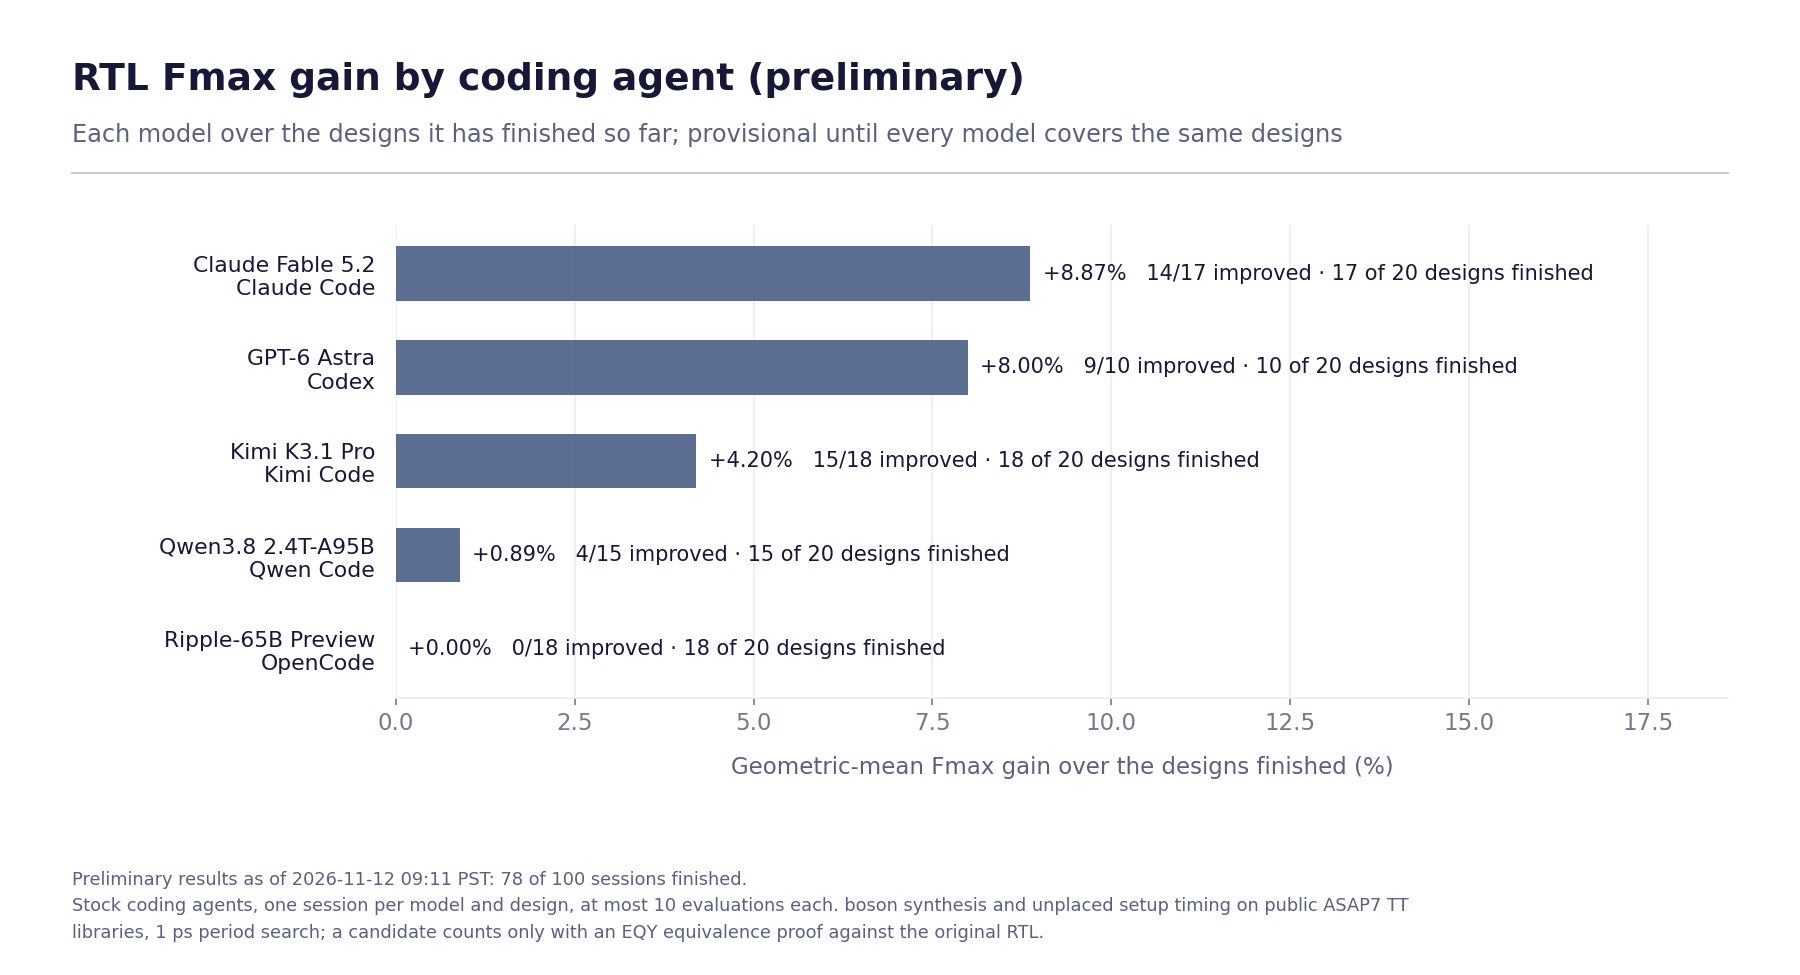
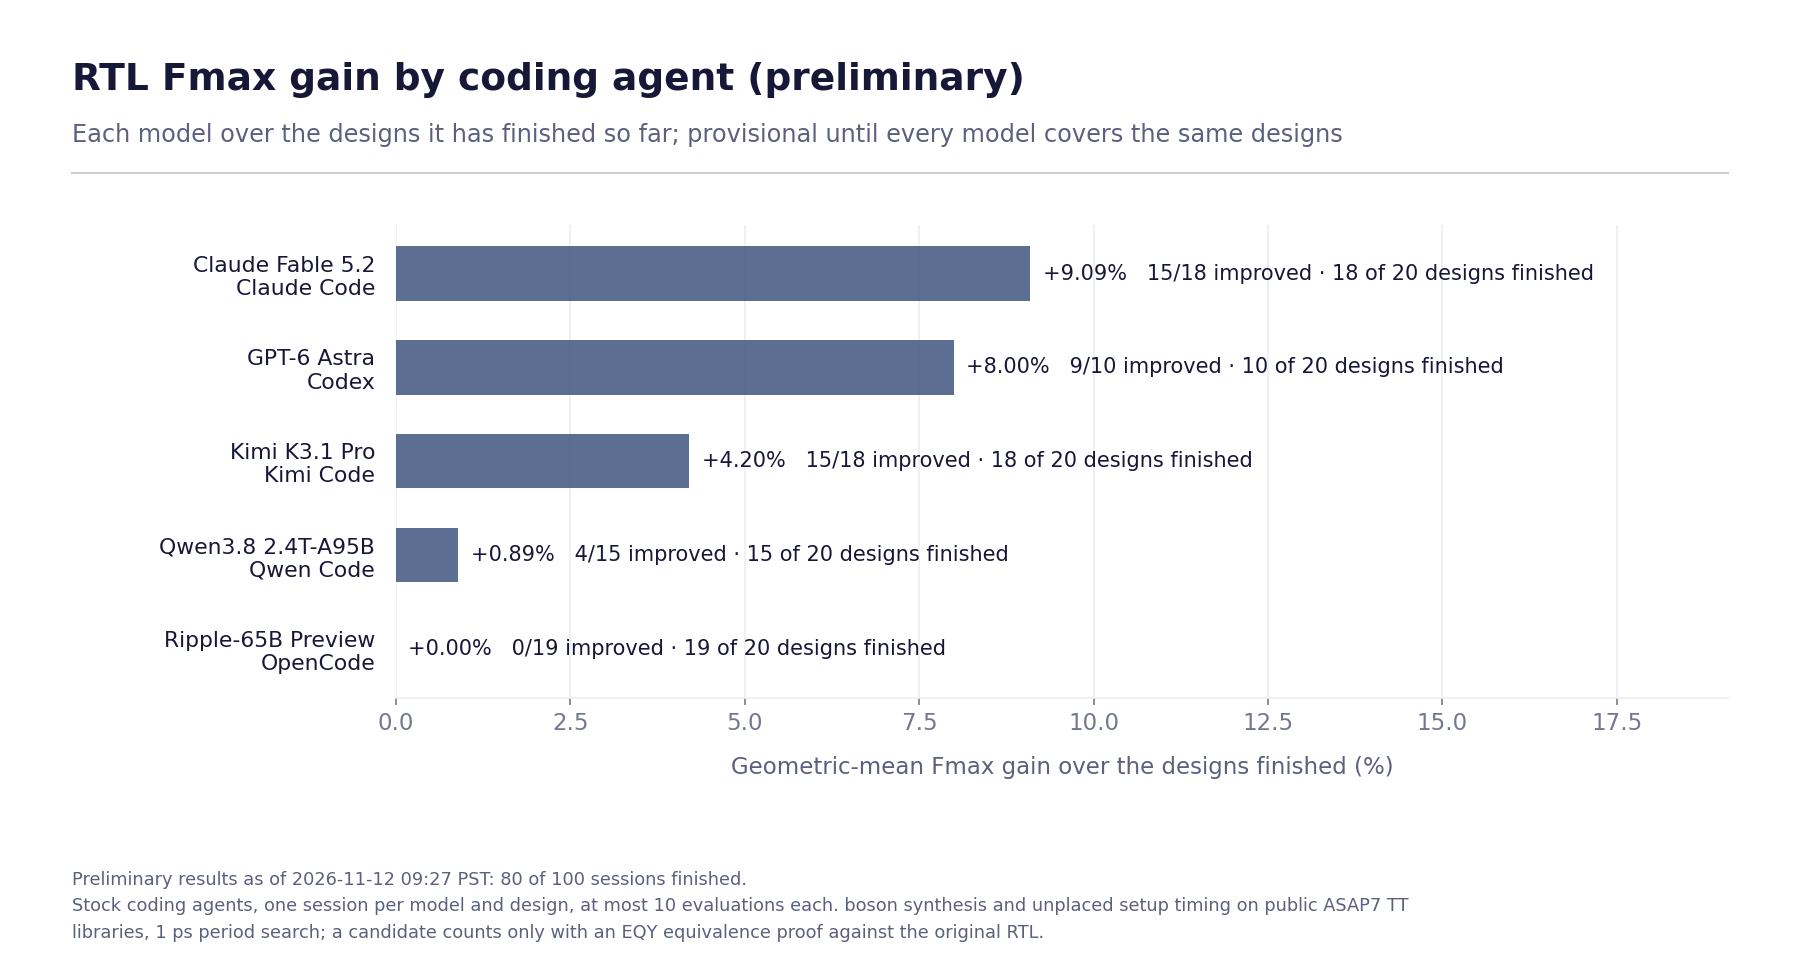
Refresh preliminary results: 80 of 100 sessions finished
Data as of 2026-11-12 09:27 PST.

diff --git a/README.md b/README.md
@@ -21,27 +21,27 @@ accepted only when it is proven equivalent and faster than the session's best so
 ## Results
 
 <!-- results:start -->
-**Status:** 78 of 100 sessions finished (5 models, 20 designs), as of 2026-11-12 09:11 PST. 11 interrupted attempts are excluded from these results while awaiting a valid replacement.
+**Status:** 80 of 100 sessions finished (5 models, 20 designs), as of 2026-11-12 09:27 PST. 11 interrupted attempts are excluded from these results while awaiting a valid replacement.
 
 ### Coverage
 
 | Model | Developer | Harness | Access | Sessions finished |
 |---|---|---|---|---:|
-| Claude Fable 5.2 | Anthropic | Claude Code 2.1.322 | Official CLI signed in to a subscription | 17 / 20 |
+| Claude Fable 5.2 | Anthropic | Claude Code 2.1.322 | Official CLI signed in to a subscription | 18 / 20 |
 | GPT-6 Astra | OpenAI | Codex 0.154.0 | Official CLI signed in to a subscription | 10 / 20 |
 | Kimi K3.1 Pro | Moonshot AI | Kimi Code 2.5.2 | OpenRouter, pinned to Moonshot AI's own endpoint (MXFP4), fallbacks disabled | 18 / 20 |
 | Qwen3.8 2.4T-A95B | Qwen (Alibaba) | Qwen Code 0.27.1 | OpenRouter, one pinned provider (SiliconFlow, FP8) | 15 / 20 |
-| Ripple-65B Preview | Ricursive AI | OpenCode 1.19.5 | Self-hosted (SGLang 0.5.19, BF16) for its first 15 designs; OpenRouter pinned to PrimeIntellect (BF16) for later sessions | 18 / 20 |
+| Ripple-65B Preview | Ricursive AI | OpenCode 1.19.5 | Self-hosted (SGLang 0.5.19, BF16) for its first 15 designs; OpenRouter pinned to PrimeIntellect (BF16) for later sessions | 19 / 20 |
 
 ### Results by model
 
 | Model | Harness | Designs finished | Fmax gain (geomean) | Designs improved | Mean evaluations | Candidates not proven |
 |---|---|---:|---:|---:|---:|---:|
-| Claude Fable 5.2 | Claude Code | 17 / 20 | +8.87% | 14 / 17 | 4.8 | 41% (33 / 81) |
+| Claude Fable 5.2 | Claude Code | 18 / 20 | +9.09% | 15 / 18 | 5.1 | 44% (40 / 91) |
 | GPT-6 Astra | Codex | 10 / 20 | +8.00% | 9 / 10 | 8.2 | 27% (22 / 82) |
 | Kimi K3.1 Pro | Kimi Code | 18 / 20 | +4.20% | 15 / 18 | 5.7 | 59% (61 / 103) |
 | Qwen3.8 2.4T-A95B | Qwen Code | 15 / 20 | +0.89% | 4 / 15 | 1.4 | 76% (16 / 21) |
-| Ripple-65B Preview | OpenCode | 18 / 20 | +0.00% | 0 / 18 | 0.2 | 100% (3 / 3) |
+| Ripple-65B Preview | OpenCode | 19 / 20 | +0.00% | 0 / 19 | 0.2 | 100% (3 / 3) |
 
 Fmax gain is the geometric mean of each finished session's Fmax ratio (baseline period / best accepted period) over the designs that model has finished. Models have finished different designs, so this order is provisional, not a like-for-like ranking, until every model covers the same designs. "Candidates not proven" is the share of evaluations whose equivalence proof did not pass.
 
@@ -58,14 +58,14 @@ Fmax gain is the geometric mean of each finished session's Fmax ratio (baseline 
 | `ibex.minimal` | 0.716 | 4 | 0.676 | +5.92% | Claude Fable 5.2 |
 | `nvdla.top` | 0.789 | 4 | 0.728 | +8.38% | Claude Fable 5.2 |
 | `opope.default` | 0.857 | 4 | 0.816 | +5.02% | Kimi K3.1 Pro |
-| `serial_link.default` | 0.305 | 3 | 0.272 | +12.13% | Kimi K3.1 Pro |
+| `serial_link.default` | 0.305 | 4 | 0.270 | +12.96% | Claude Fable 5.2 |
 | `spi_host.default` | 0.475 | 3 | 0.400 | +18.75% | Kimi K3.1 Pro |
 | `snitch_cluster.minimal` | 1.288 | 5 | 1.200 | +7.33% | GPT-6 Astra, Kimi K3.1 Pro |
 | `ita.default` | 0.903 | 5 | 0.900 | +0.33% | Claude Fable 5.2 |
 | `mempool.minpool` | 2.869 | 4 | 2.342 | +22.50% | GPT-6 Astra |
 | `ara.default` | 1.064 | 5 | 0.942 | +12.95% | Claude Fable 5.2 |
 | `pulp_c910.default` | 1.005 | 4 | 0.930 | +8.06% | GPT-6 Astra |
-| `spatz.default` | 2.266 | 2 | 1.868 | +21.31% | Claude Fable 5.2 |
+| `spatz.default` | 2.266 | 3 | 1.868 | +21.31% | Claude Fable 5.2 |
 | `snitch_cluster.default` | 2.128 | 3 | 1.751 | +21.53% | Claude Fable 5.2 |
 | `redmule.default` | 1.636 | 1 | 1.542 | +6.10% | Claude Fable 5.2 |
 | `snitch_cluster.default_latch` | 2.169 | 4 | 2.091 | +3.73% | GPT-6 Astra |
@@ -74,9 +74,9 @@ Fmax gain is the geometric mean of each finished session's Fmax ratio (baseline 
 
 Counts over every finished session of the models above. They describe what happened; with one session per model and design they do not establish causes or rankings.
 
-- 290 candidates evaluated: 100 accepted, 54 proven equivalent but not faster than the session's best, 135 not proven (98 with a partition EQY could not prove, 21 at the proof deadline, 16 over the proof memory budget), 1 failed to compile or measure.
-- Of 78 finished sessions, 51 ended with the agent finishing on its own, 26 ran to the time budget and 1 ended with an agent error.
-- Sessions used 3.7 of the 10 allowed evaluations on average; 8 used all 10.
+- 300 candidates evaluated: 103 accepted, 54 proven equivalent but not faster than the session's best, 142 not proven (105 with a partition EQY could not prove, 21 at the proof deadline, 16 over the proof memory budget), 1 failed to compile or measure.
+- Of 80 finished sessions, 53 ended with the agent finishing on its own, 26 ran to the time budget and 1 ended with an agent error.
+- Sessions used 3.8 of the 10 allowed evaluations on average; 9 used all 10.
 - Largest single gain so far: `cvfpu.fp32_fma` by Claude Fable 5.2, 1.401 ns to 1.070 ns (+30.93% Fmax).
 <!-- results:end -->
 
